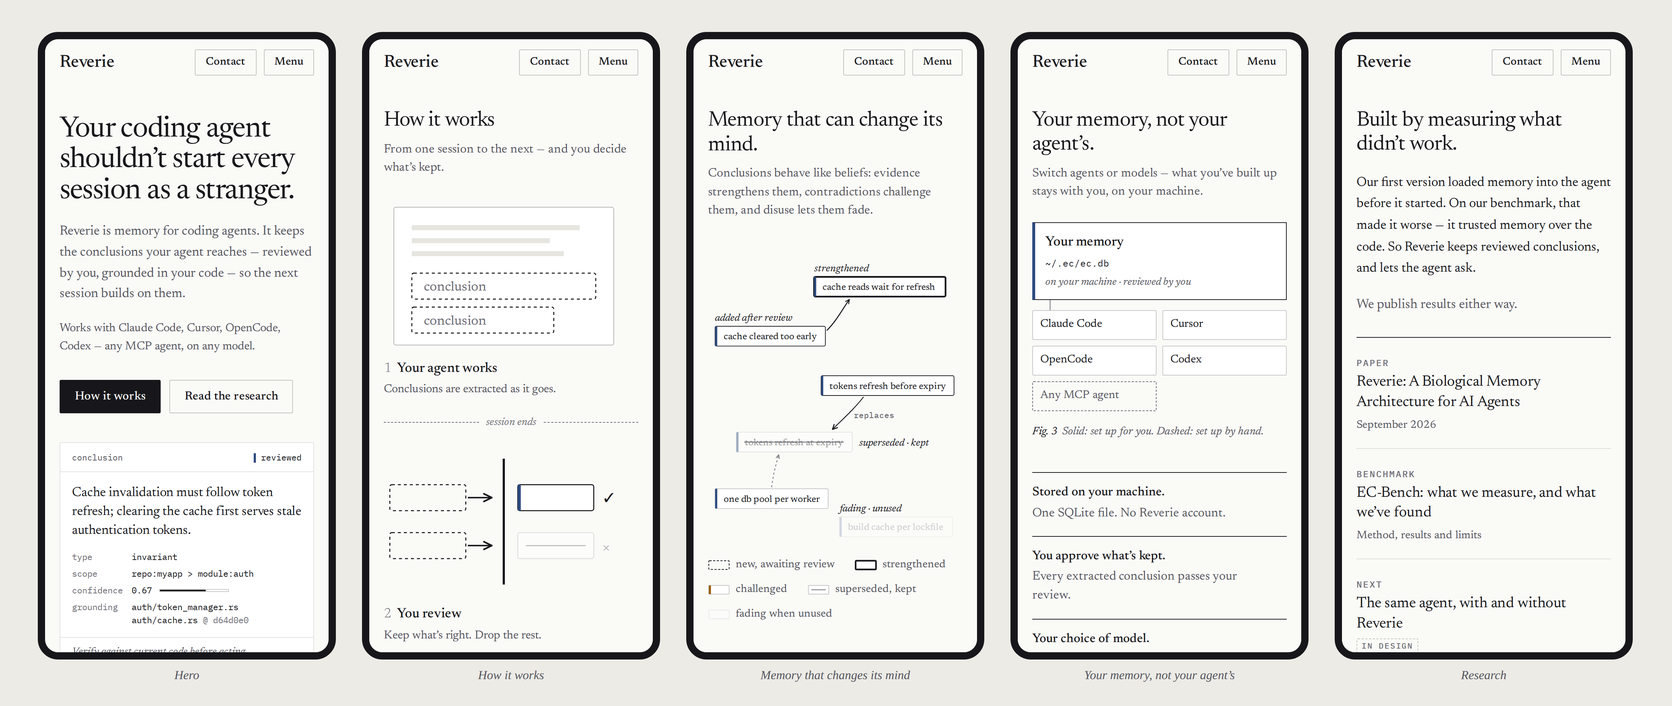
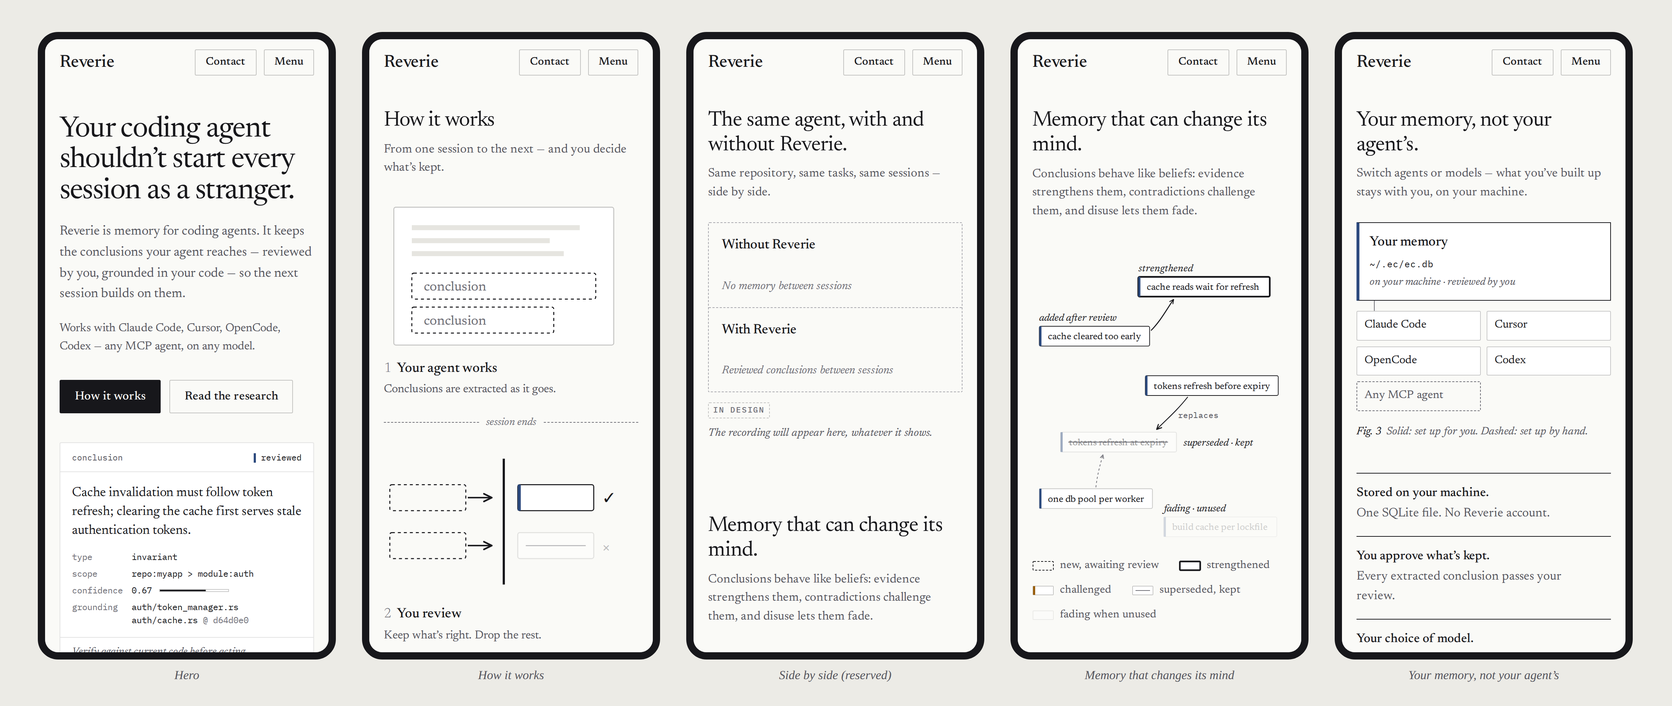
Reserve a homepage place for the comparison video; mark design approved
- Homepage preview: new section S3b, "The same agent, with and without
  Reverie.", placed after How it works. Until the recording exists it
  is a dashed two-sided frame (Without Reverie / With Reverie, each
  naming its condition) with an "In design" tag and "The recording will
  appear here, whatever it shows." No player, thumbnail or anything
  that predicts a result. The research list's "Next" row moves into it.
- Plan: S3b spec for the reserved and published states (one composited
  side-by-side recording with the setup disclosed, per the owner's
  reference), a new experiment.homepageSlot switch (default true), and
  the §13 lifecycle updated for the homepage.
- Status lines: design approved by the owner on 2026-10-05.
- Implementation tasks: redesign branches from this branch; T1 config
  and T4a cover the slot; T12 swaps it for the video.

Claude-Session: https://claude.ai/code/session_01MShEPT7snyJJC3PupJTceH

diff --git a/design/homepage-preview/home.html b/design/homepage-preview/home.html
@@ -194,6 +194,16 @@ figure.fig .legend svg { width: 30px; height: 14px; display: inline-block; }
   .mm-toggle { display: none; }
 }
 
+/* ---------- side by side (S3b, reserved video slot) ---------- */
+.vs { margin: 52px 0 0; }
+.vs-labels, .vs-frame { display: grid; grid-template-columns: 1fr 1fr; }
+.vs-frame { height: 260px; border: 1px dashed var(--ink-4); border-radius: 2px; }
+.vs-half { padding: 22px 24px; display: flex; flex-direction: column; justify-content: space-between; }
+.vs-half + .vs-half { border-left: 1px dashed var(--ink-4); }
+.vs-label { font-size: 19px; font-weight: 500; }
+.vs-cond { font-style: italic; font-size: 15.5px; color: var(--ink-3); }
+.vs-status { margin-top: 14px; display: flex; gap: 10px; align-items: baseline; flex-wrap: wrap; }
+
 /* ---------- ownership (O1) ---------- */
 .facts3 { margin: 44px 0 0; list-style: none; padding: 0; }
 .facts3 li { grid-column: span 4; border-top: 1px solid var(--ink); padding: 14px 24px 0 0; font-size: 17.5px; line-height: 1.5; }
@@ -264,6 +274,10 @@ footer { margin-top: 144px; border-top: 1px solid var(--rule); padding: 50px 0 4
   .panel-label { margin-top: 40px; }
   .facts3 li { margin-top: 18px; }
   .rlist { margin-top: 30px; }
+  .vs { margin-top: 28px; }
+  .vs-frame { grid-template-columns: 1fr; height: auto; }
+  .vs-half { min-height: 116px; padding: 16px 18px; }
+  .vs-half + .vs-half { border-left: 0; border-top: 1px dashed var(--ink-4); }
   .rlist li { grid-template-columns: 1fr; row-gap: 4px; }
   .s7 { padding-top: 104px; }
   .s7 .right { margin-top: 16px; }
@@ -526,6 +540,21 @@ footer { margin-top: 144px; border-top: 1px solid var(--rule); padding: 50px 0 4
   <p class="more"><a class="arrow-link" href="#">The full mechanism →</a></p>
 </section>
 
+<!-- S3b Side by side: reserved space for the comparison video (dashed until the recording exists) -->
+<section class="section wrap">
+  <div class="grid s-head">
+    <h2>The same agent, with and without Reverie.</h2>
+    <p class="aside">Same repository, same tasks, same sessions — side by side.</p>
+  </div>
+  <figure class="vs" aria-label="Reserved space for the side-by-side recording">
+    <div class="vs-frame">
+      <div class="vs-half"><span class="vs-label">Without Reverie</span><span class="vs-cond">No memory between sessions</span></div>
+      <div class="vs-half"><span class="vs-label">With Reverie</span><span class="vs-cond">Reviewed conclusions between sessions</span></div>
+    </div>
+    <figcaption class="vs-status"><span class="tag dashed">In design</span><span class="caption">The recording will appear here, whatever it shows.</span></figcaption>
+  </figure>
+</section>
+
 <!-- S4 Memory that can change its mind (M1 + F2) -->
 <section class="section wrap">
   <div class="grid s-head">
@@ -723,7 +752,6 @@ footer { margin-top: 144px; border-top: 1px solid var(--rule); padding: 50px 0 4
   <ul class="rlist">
     <li><span class="mono-label kind">Paper</span><div><div class="title">Reverie: A Biological Memory Architecture for AI Agents</div><div class="meta">September 2026</div></div></li>
     <li><span class="mono-label kind">Benchmark</span><div><div class="title">EC-Bench: what we measure, and what we’ve found</div><div class="meta">Method, results and limits</div></div></li>
-    <li><span class="mono-label kind">Next</span><div><div class="title">The same agent, with and without Reverie</div><div class="meta"><span class="tag dashed">In design</span></div></div></li>
   </ul>
   <p class="more"><a class="arrow-link" href="#">All research →</a></p>
 </section>

diff --git a/WEBSITE-DESIGN-PLAN.md b/WEBSITE-DESIGN-PLAN.md
@@ -1,6 +1,6 @@
 # Reverie website: design plan
 
-**Status:** proposal for review. Nothing in this plan has been implemented.
+**Status:** **approved by the owner on 2026-10-05.** Implementation runs on the `redesign` branch, task by task (see [`IMPLEMENTATION-TASKS.md`](./IMPLEMENTATION-TASKS.md)).
 **Date:** 2026-10-05
 **Branch:** `claude/elegant-hopper-xg43jw`
 **Scope:** a ground-up redesign of the Reverie website, from information architecture down to the design system and an implementation plan.
@@ -26,14 +26,14 @@ It also uses a read-only pass over this repository (including the four PDFs in `
 | What the site is for | A product site for Reverie, backed by its research. The order is: product, then how it works, then why it's different, then the research that explains and tests it. |
 | Positioning | **Reverie is memory for coding agents. It keeps the engineering conclusions your agent reaches, reviewed by you, grounded in your repository, and revised as evidence changes. The memory is yours, not your agent's: one local file that any MCP agent can use, on any model.** |
 | Category frame | Reverie sits among tools that give *the coding agent you already use* persistent memory. Being in that category isn't what makes it different: many tools are there now (§3). What differs is *what* it keeps (conclusions), *how belief is governed* (confidence, contradiction, supersession, grounding, review, and retrieval only when the agent asks) and *whose memory it is*: the developer's, shared by every agent they connect. |
-| Homepage | Seven short sections plus one reserved slot. About 340 words of copy and no numbers. It is visual-led: a diagram wherever one explains better than text (owner rule, 2026-10-05). Six visuals, one of them animated. |
+| Homepage | Eight short sections, one of them the reserved place for the comparison video (S3b). About 340 words of copy and no numbers. It is visual-led: a diagram wherever one explains better than text (owner rule, 2026-10-05). Six visuals, one of them animated. |
 | Pages | Home, How it works, Research, paper (web-native), EC-Bench, Continuity experiment (reserved), Notebook entries, About, 404. |
 | Navigation | `Reverie` · How it works · Research · About · **[GitHub]** (or **Contact** until the repository is public). |
 | Removed | `/ems`, `/ethos`, `/notes` (index), and all eight existing SVG components. Also the "At a Glance" cards, "The Shift" poem, the "Research Before Systems" manifesto, the scroll-fade animation layers and framer-motion. |
 | Moved | `/ec-bench` → `/research/ec-bench`; `/notes/everything-till-now` → `/research/notes/everything-till-now` (with an editor's note); PDFs → `/research/archive/`. |
 | Visual direction | "Two voices": a serif speaks for ideas and a monospace speaks for the system. Warm paper and ink, one ink-blue accent, and status colours used only where they mean something. Hairline rules, near-square corners, no cards, no gradients, no scroll animation. There is one explanatory animation (the homepage memory map); it can be paused and is static under reduced motion. |
 | Diagrams | Nine figures and two artifacts across the whole site. No page has more than three visuals, except the homepage, which is visual-led by owner decision. Five pages have none. Full spec in `DIAGRAM-PLAN.md`. |
-| Comparison video | It gets its own research page, `/research/continuity-experiment`. Until results exist, that page publishes the protocol, and the homepage shows the experiment only as a dated "in design" line in the research section. A homepage video slot opens once results are published. |
+| Comparison video | A homepage section reserves its place now (S3b, after How it works; owner decision). Until the recording exists, it is a dashed two-sided frame marked `In design`; then the side-by-side video takes the same spot. Protocol, recordings and results live on `/research/continuity-experiment`. Nothing about the result appears before it exists. |
 | Benchmark numbers | **None on the homepage or How it works.** EC-Bench numbers appear only on the EC-Bench page, in a results ledger, after the owner reconciles conflicting figures (§1.7). |
 | Blocked on the owner | Reconcile the benchmark numbers, correct the paper, capture a real `ec_query` specimen, decide repository and licence timing, confirm the domain and hosting, and share the visual references (§20). |
 
@@ -557,9 +557,9 @@ Each page uses vocabulary appropriate to its depth, and each term is introduced 
 4. **No tool names on the homepage.** They belong on How it works.
 
 **Shape.**
-- Seven sections plus one reserved slot.
+- Eight sections: S1–S7 plus S3b, the place reserved for the comparison video.
 - About **340 words** of copy (down from about 480), counting the hero specimen and the captions, plus short figure labels.
-- **Six visuals across five sections**: V1, P1, F1, Fig. 2 (M1 above F2) and O1. The homepage is exempt from the three-visual cap by owner decision (§9).
+- **Six visuals across five sections**: V1, P1, F1, Fig. 2 (M1 above F2) and O1, plus the video slot. The homepage is exempt from the three-visual cap by owner decision (§9).
 - **No numbers.** Left-aligned editorial layout throughout.
 
 **One story through one conclusion.** An agent finds out why users are being logged out at random: the cache is cleared before the token refresh finishes. That thread appears as:
@@ -621,13 +621,22 @@ The recommended headline is the paper's own image ("the agent is a stranger"). B
 | **Why it exists** | Goals 3 and 6, plus the "after reading the code" stance. Review at the session boundary and the request after reading the code make the two governance ideas visible. |
 | **Deliberately leaves out** | The separate steps block (its content is now inside the figure); tool names; confidence maths; relationship types; maintenance; scope levels; model names; hover highlighting (nothing left to link to). |
 
-**Reserved slot S3b, "Watch it work"** (hidden until the continuity experiment is published; see §13). When it opens, it holds:
-- a poster frame and player for the side-by-side highlight recording;
-- a one-line neutral description;
-- the date;
-- *"Protocol, recordings and results →"*.
+### S3b. Side by side: *Can I see it work?*
 
-To keep the homepage from growing, **the lower panel of Fig. 2 (F2) then leaves the homepage**. F5 on How it works already covers it.
+The place for the comparison video. Per the owner's decision on 2026-10-05, it is **visible now**, before the recording exists.
+
+| | |
+|---|---|
+| **Purpose** | Hold the side-by-side recording: the same agent, on the same repository and tasks, across the same sessions, once without Reverie and once with it. Until the recording exists, the section reserves the place honestly. |
+| **Headline** | **The same agent, with and without Reverie.**, with an aside in the right column: "Same repository, same tasks, same sessions — side by side." |
+| **Before the recording** (now) | **The frame:** a dashed frame, 1200 × 260. Dashed means "not yet", as everywhere on the site. <br>**The halves:** it splits into *Without Reverie* and *With Reverie*. Each half has one italic line naming its condition: *No memory between sessions* and *Reviewed conclusions between sessions*. <br>**Underneath:** an `In design` tag (or `In progress` while recording) and *"The recording will appear here, whatever it shows."* In the `design` and `running` states, *How we'll run it →* is added. <br>**Never shown:** no player, play button or thumbnail, and nothing that predicts a result. |
+| **After the recording** (`published`) | The frame becomes the video module (V2): <br>• the condition labels above the two halves, in the same two-column grid; <br>• a 16:9 poster frame with a native player (click to play, no autoplay, captions); <br>• under it, one line of metadata: date · agent and model · sessions · "Sped up N×", then *Protocol, recordings and results →*. <br>The format follows the owner's reference: one composited side-by-side recording of the same task, with the setup disclosed. |
+| **Placement** | After How it works, so the mechanism comes first and the evidence follows; before Memory. |
+| **Mobile** | Before the recording, the two halves stack. After it, the composited highlight plays as produced (§13). |
+| **Why it exists** | Goals 8 and 9. Once the recording exists, it is direct evidence of continuity. Until then, it is a visible commitment to publish the result either way. |
+| **Deliberately leaves out** | Fake footage, mock terminals, an empty player, outcome language ("Reverie wins"), and any number before the results are published. |
+
+When the video is published, **the lower panel of Fig. 2 (F2) leaves the homepage**, so the page doesn't grow. F5 on How it works already covers it.
 
 ---
 
@@ -668,7 +677,7 @@ Alternative headline: "Kept as beliefs, not facts."
 | **Purpose** | Show the research foundation and the honesty that defines it, then route researchers onward. |
 | **Headline** | **Built by measuring what didn't work.** |
 | **Supporting copy** | Our first version loaded memory into the agent before it started. On our benchmark, that made it worse — it trusted memory over the code. So Reverie keeps reviewed conclusions, and lets the agent ask. <br><br> We publish results either way. |
-| **List** (typographic, three rows, each a link) | **Paper:** *Reverie: A Biological Memory Architecture for AI Agents* · September 2026 <br> **Benchmark:** *EC-Bench: what we measure, and what we've found* · Method, results and limits <br> **Next:** *The same agent, with and without Reverie* · `In design` |
+| **List** (typographic, each row a link) | **Paper:** *Reverie: A Biological Memory Architecture for AI Agents* · September 2026 <br> **Benchmark:** *EC-Bench: what we measure, and what we've found* · Method, results and limits <br> A third row, **Next:** *The same agent, with and without Reverie* · `In design`, appears only while S3b is hidden. |
 | **Call to action** | *All research →* (`/research`) |
 | **Why it exists** | Goal 9. It also states the value "research before claims" by *doing* it rather than declaring a principle. |
 | **Deliberately leaves out** | Every number; the biology story (one click away in the paper); the list of archived PDFs. |
@@ -862,13 +871,13 @@ The full specification (purpose, question answered, content, exclusions, composi
 | F4 | Two brains and a review gate | How it works; Paper | Architecture diagram | None |
 | F5 | The life of a conclusion, step by step | How it works; Paper (static) | Interactive state timeline with computed confidence | Stepper (buttons, keyboard, aria-live) |
 | F6 | How an EC-Bench run works | EC-Bench (variant on Experiment) | Protocol diagram | None |
-| V2 | Side-by-side recording | Experiment; Home slot S3b (when published) | Video module | Player, chapters, condition toggle on mobile |
+| V2 | Side-by-side recording | Experiment; Home S3b (a reserved, dashed frame until published) | Video module | Player, chapters, condition toggle on mobile |
 
 **Per-page count:**
 
 | Page | Visuals | Count |
 |---|---|---|
-| Home | V1, P1, F1, M1 with F2, O1 (when the video ships, V2 joins and F2 leaves) | 6, by owner decision |
+| Home | V1, P1, F1, M1 with F2, O1, plus the S3b video slot (a reserved frame now; V2 when published, and F2 then leaves) | 6 plus the slot, by owner decision |
 | How it works | F3, F4, F5 | 3 |
 | Paper | F4, F5 static | 2 |
 | EC-Bench | F6 | 1 |
@@ -1184,15 +1193,17 @@ The rename from EMS to Reverie, and the `ec` code prefix, are explained in exact
 
 ## 13. Comparison-video placement
 
-**Where it lives:** its own research page, `/research/continuity-experiment`. An experiment needs its protocol, artifacts and caveats next to the recording, and a homepage section can't carry that honestly. The homepage gets a compact module (slot S3b) once results exist.
+**Where it lives:** its own research page, `/research/continuity-experiment`. An experiment needs its protocol, artifacts and caveats next to the recording, and a homepage section can't carry that honestly. The homepage holds the recording itself in S3b. That section is visible now as a reserved frame (owner decision, 2026-10-05) and shows the video once it is published.
+
+**The owner's reference format:** one composited video with two labelled halves, both systems running the same task in a recorded run, with the comparison setup disclosed. The highlight cut below follows it.
 
 **Lifecycle**, controlled by a single setting, `site.config.ts → experiment.status`:
 
 | Status | Experiment page | Research index | Homepage |
 |---|---|---|---|
-| `hidden` | Not generated | Row: "Continuity experiment · In design" (no link) | S6 "Next" line, no link |
-| `design` (**recommended**) | **Live**: question, hypothesis stated neutrally, protocol, what will be published, last-updated date. *No empty video frame.* The copy says: "Recordings and results will be published here when the runs are complete, whatever they show." | Linked, `In design` | S6 "Next" line, linked |
-| `running` | As `design`, plus a run log (dates) | `Running` | Same |
+| `hidden` | Not generated | Row: "Continuity experiment · In design" (no link) | S3b shows the reserved frame, with no link. With `homepageSlot: false`, S3b is hidden and S6 shows a "Next" line instead. |
+| `design` (**recommended**) | **Live**: question, hypothesis stated neutrally, protocol, what will be published, last-updated date. *No empty video frame.* The copy says: "Recordings and results will be published here when the runs are complete, whatever they show." | Linked, `In design` | S3b reserved frame, plus *How we'll run it →* |
+| `running` | As `design`, plus a run log (dates) | `Running` | Same, with the tag `In progress` |
 | `published` | Full page (below) | `Published` | **S3b opens**: poster frame, player, one-line neutral description, date, "Protocol, recordings and results →". The lower panel of Fig. 2 (F2) leaves the homepage (§7 S3b). |
 
 Publishing the protocol before the results (status `design`) makes the "placeholder" a preregistration rather than an unfinished section, which fits the project's honesty.
@@ -1394,7 +1405,7 @@ components/
   research/    ResearchList · Lineage · ResultsLedger · Citation
   video/       ComparisonVideo (V2; built when the experiment ships)
 content/
-  site.config.ts          name, tagline, domain, contactEmail, repository {url|null, ref}, experiment {status}, claims {anyMcpAgent}, version, supportedAgents
+  site.config.ts          name, tagline, domain, contactEmail, repository {url|null, ref}, experiment {status, homepageSlot}, claims {anyMcpAgent}, version, supportedAgents
   research.ts             research entries (index, lineage, archive)
   bench-runs.ts           results ledger rows (with sources and reconciliation status)
   specimens/*.json        captured ec_query outputs (V1/F3)
@@ -1436,10 +1447,11 @@ type BenchRun = {
 
 ### 19.4 Configuration states
 
-`site.config.ts` holds three switches:
+`site.config.ts` holds four switches:
 
 - `repository.url: string | null`, which controls the CTA states (§4.5) and the grounding-note links;
 - `experiment.status: "hidden" | "design" | "running" | "published"`, which controls §13;
+- `experiment.homepageSlot: boolean` (default `true`, owner decision), which shows S3b's reserved frame before publication;
 - `claims.anyMcpAgent: boolean`, which controls the "any MCP agent" wording in the hero and the dashed record in Fig. 3 (§20, question 20).
 
 No other conditional logic is needed.
@@ -1494,7 +1506,7 @@ Vercel is assumed, since Vercel Analytics is installed. Redirects go in `vercel.
 | 2 | **Paper corrections** (§1.7A, 12 items): revise to v1.1 before web publication? | The paper would otherwise contradict the product pages | Revise; fall back to an abstract page plus errata |
 | 3 | **Repository timing:** when public, under what licence, at what URL? | Drives CTA state, grounding links, the "open source" answer | State A until a LICENSE exists |
 | 4 | **Pre-release contact:** mailto only, or a newsletter or form service? Offer "early access"? | A static site has no form backend | Mailto; no "early access" promise |
-| 5 | **Continuity experiment:** publish the protocol before results (`design` state)? Video hosting: self-hosted or embed? | Placeholder strategy; privacy | Yes, preregister; self-host |
+| 5 | **Continuity experiment:** publish the protocol before results (`design` state)? Video hosting: self-hosted or embed? | Placeholder strategy; privacy | Yes, preregister; self-host. The homepage slot already shows (owner decision, 2026-10-05) |
 | 6 | **Visual references:** please paste screenshots of the four references into a session, or into `design/references/`. The image hosts stay blocked even in the Custom environment, and Dribbble serves a bot challenge. Do they imply a dark default? | Taste alignment before implementation; the metadata already points to light, Swiss-minimal and editorial (§10.14) | Light default plus system dark mode |
 | 7 | **Typefaces:** approve Newsreader and IBM Plex Mono (or Source Serif 4 / JetBrains Mono)? | Identity | Newsreader + Plex Mono |
 | 8 | **About:** name the individual and use "I", or keep "we"? Bio, links, portrait? | Honesty about scale vs voice | Name the author; "we" for the research voice |

diff --git a/DIAGRAM-PLAN.md b/DIAGRAM-PLAN.md
@@ -1,9 +1,9 @@
 # Reverie website: diagram and visual plan
 
-**Status:** proposal for review. **No diagram has been coded for the site.** The homepage figures are drawn in the static preview only.
+**Status:** **approved by the owner on 2026-10-05.** No diagram has been coded for the site yet; the homepage figures are drawn in the static preview. Implementation follows `IMPLEMENTATION-TASKS.md`.
 **Date:** 2026-10-05 · **Companion to:** [`WEBSITE-DESIGN-PLAN.md`](./WEBSITE-DESIGN-PLAN.md) (§9 summarises this file)
 **Approval:** every visual below needs sign-off before implementation. §8 is a review checklist.
-**Reference rendering:** V1, P1, F1, M1, F2 and O1 are drawn in [`design/homepage-preview/home.html`](./design/homepage-preview/home.html) (version 2), in both desktop and mobile compositions. Screenshots, and a storyboard of the M1 animation, are in `design/homepage-preview/screenshots/`. Port their geometry and keyframes when implementing. Where wording differs between the preview and this file, the preview is newer.
+**Reference rendering:** V1, P1, F1, M1, F2 and O1, and the reserved V2 frame, are drawn in [`design/homepage-preview/home.html`](./design/homepage-preview/home.html) (version 2), in both desktop and mobile compositions. Screenshots, and a storyboard of the M1 animation, are in `design/homepage-preview/screenshots/`. Port their geometry and keyframes when implementing. Where wording differs between the preview and this file, the preview is newer.
 **Revision 2 (2026-10-05):** after the owner's review of the first preview, the homepage became visual-led. V1 and F1 were simplified, F2 lost its supporting copy, and P1, M1 and O1 were added. §1, §3, §5, §7 and §8 are updated.
 
 All factual elements cite their source. Most cite **PRODUCT.md** (the implementation archaeology) or **INSTALLATION.md**; a few cite the paper *Reverie: A Biological Memory Architecture for AI Agents* (5 Sep 2026), but only where the paper agrees with the implementation (see design plan §1.7A).
@@ -25,7 +25,7 @@ All factual elements cite their source. Most cite **PRODUCT.md** (the implementa
 
 | Page | Visuals | Count |
 |---|---|---|
-| Home `/` | V1 hero graph · P1 Every session starts from zero · F1 From one session to the next · Fig. 2: M1 memory map above F2 one conclusion, up close · O1 Your memory, not your agent's | **6** (owner exception) |
+| Home `/` | V1 hero graph · P1 Every session starts from zero · F1 From one session to the next · Fig. 2: M1 memory map above F2 one conclusion, up close · O1 Your memory, not your agent's · plus the S3b video slot (a reserved frame until V2 exists) | **6** plus the slot (owner exception) |
 | Home, after the continuity experiment is published | V1 · P1 · F1 · M1 · O1 · V2 side-by-side recording (F2 leaves the homepage; S4 links to F5) | **6** |
 | How it works `/how-it-works` | F3 Anatomy of a conclusion · F4 Two brains and a review gate · F5 The life of a conclusion, step by step | **3** |
 | Paper `/research/biological-memory-architecture` | F4 (reused) · F5 static variant (reused) | **2** |
@@ -356,12 +356,13 @@ Extracted  You accept it  Supported and used  A new one disagrees  Conflict pers
 | Field | Specification |
 |---|---|
 | **Name** | V2, the continuity experiment recording |
-| **Pages** | Continuity experiment (published state); Home slot S3b (published state). |
+| **Pages** | Continuity experiment (published state); Home S3b, which shows a reserved frame now and the video once published. |
 | **Purpose** | Let a visitor *watch* the same agent continue work across sessions with and without Reverie, as evidence. It is not an advertisement. |
 | **Question it answers** | "What does Reverie actually change in a real session?" |
 | **Contains** | (1) **Highlight cut** (90 s or less): a composited side-by-side, produced for legibility (zoomed crops, large terminal type), with **on-screen speed-up disclosure** and session chapter cards. (2) **Full recordings** per arm, with chapters (Session 1, 2, 3…) and key-moment markers. (3) **Captions** (WebVTT) and a **text transcript**. (4) **Metadata block** next to the player, as listed in design plan §13. |
 | **Leaves out** | Background music, outcome text over the video ("Reverie wins"), any splicing that changes the order of events, any unexplained speed changes. |
-| **Composition** | Desktop: the highlight player full width (16:9), with the metadata block in a right column or directly below; full recordings below as two players with optional synchronised play and seek. Home S3b: poster frame, play button, one-line neutral description, date, link. |
+| **Composition** | **Experiment page (desktop):** the highlight player at full width (16:9), with the metadata block in a right column or directly below. The full recordings sit below as two players with optional synchronised play and seek. <br>**Home S3b:** the condition labels (*Without Reverie*, *With Reverie*) in a two-column row above the poster frame and play button. Below: one metadata line (date · agent and model · sessions · speed-up) and *Protocol, recordings and results →*. |
+| **Reserved state (Home, now)** | A dashed 1200 × 260 frame split into two halves, labelled *Without Reverie* and *With Reverie*. Each half names its condition: *No memory between sessions* and *Reviewed conclusions between sessions*. Under it: an `In design` tag and *"The recording will appear here, whatever it shows."* There is no player, play button or thumbnail, and nothing that predicts a result. On mobile the halves stack. |
 | **Why a visual beats text** | Continuity is a behaviour over time. Seeing the agent ask for, retrieve and verify a conclusion (or fail to) is direct evidence that no description can replace. |
 | **Static or interactive** | Interactive: a native `<video>` element with custom chapter links. No autoplay with sound; a muted autoplay preview on Home is **not** used. |
 | **Mobile** | The highlight cut plays as produced. The full recordings use one player with a `Without · With Reverie` segmented toggle that preserves the current timestamp when switching. Never a shrunken split screen of terminal text. |
@@ -479,6 +480,6 @@ For each visual, please confirm or strike:
 | F4 Two brains and a review gate | ☐ | ☐ | ☐ | n/a | Show the `ec_reconsolidate` exception as drawn? |
 | F5 Life of a conclusion, step by step | ☐ | ☐ | ☐ | ☐ (stepper) | Worked numbers in §6 |
 | F6 How an EC-Bench run works | ☐ | ☐ | ☐ | n/a | Confirm protocol accuracy |
-| V2 Side-by-side recording | ☐ | ☐ | ☐ | ☐ | Hosting; preregistration |
+| V2 Side-by-side recording | ☐ | ☐ | ☐ | ☐ | Hosting; preregistration; the homepage slot is visible before release (owner decision) |
 | Retire all eight existing SVGs (§5) | ☐ | | | | |
 | "No diagram" pages (§4) | ☐ | | | | |

diff --git a/IMPLEMENTATION-TASKS.md b/IMPLEMENTATION-TASKS.md
@@ -1,6 +1,6 @@
 # Reverie website: implementation tasks
 
-**Status:** ready for implementation once the owner approves the design. **Date:** 2026-10-05.
+**Status:** **design approved by the owner on 2026-10-05; implementation under way.** **Date:** 2026-10-05.
 **Revision 2 (2026-10-05):** updated for the visual-led homepage (preview version 2). The homepage task is split into T4a (sections and static figures) and T4b (the memory-map animation). The motion and blur rules have one exception each, and P13 and P14 are new owner decisions.
 
 This file breaks [`WEBSITE-DESIGN-PLAN.md`](./WEBSITE-DESIGN-PLAN.md) and [`DIAGRAM-PLAN.md`](./DIAGRAM-PLAN.md) into **self-contained tasks**, each small enough for one focused session. The visual target for the homepage is [`design/homepage-preview/`](./design/homepage-preview/): an HTML rendering plus screenshots.
@@ -17,7 +17,7 @@ This file breaks [`WEBSITE-DESIGN-PLAN.md`](./WEBSITE-DESIGN-PLAN.md) and [`DIAG
 
 **Branching.** The live site deploys from `main` (Vercel, assumed). Use an integration branch:
 
-1. Create a branch called `redesign` from `main`. The first session does this.
+1. Create a branch called `redesign` from `claude/elegant-hopper-xg43jw`, which holds these documents and the preview (`main` doesn't have them until that branch is merged). The first session does this.
 2. Point every task session at `redesign`, through a PR into `redesign` or commits on it.
 3. Use `redesign`'s preview deployment to review.
 4. Merge `redesign` into `main` only after T11 passes.
@@ -131,7 +131,7 @@ Sonnet is fine for every task. T4a, T4b and T5 are the most design-sensitive, so
   - a `.prose` long-form style (replacing `.article-content`, restyled to the new tokens).
   - Keep the old `btn-editorial`, `card-editorial`, `text-editorial` and `section-animate` styles inside a `/* LEGACY — delete in T10 */` block, because old pages still use them.
 - **`content/site.config.ts`.**
-  - Fields: name, tagline, description, `domain: null`, contactEmail (`muditsarda23@gmail.com`), `repository: { url: null, ref: null }`, `experiment: { status: "hidden" }`, version, supportedAgents (Claude Code, Cursor, OpenCode, Codex), `claims: { anyMcpAgent: true }` (P13), nav items.
+  - Fields: name, tagline, description, `domain: null`, contactEmail (`muditsarda23@gmail.com`), `repository: { url: null, ref: null }`, `experiment: { status: "hidden", homepageSlot: true }`, version, supportedAgents (Claude Code, Cursor, OpenCode, Codex), `claims: { anyMcpAgent: true }` (P13), nav items.
   - Export typed helpers, for example `isRepoPublic()`.
 - **Components.**
   - `components/site/Wordmark.tsx`.
@@ -241,9 +241,10 @@ Sonnet is fine for every task. T4a, T4b and T5 are the most design-sensitive, so
   - S1: hero split, with the copy in columns 1–6 and `HeroGraph` in columns 7–12;
   - S2: the heading and pull line on the left, `SessionsStrip` (P1) on the right;
   - S3: Fig. 1 with its labels inside the figure (there is no separate steps block), then the arrow link;
+  - S3b: the side-by-side section with `VideoSlot`, the reserved dashed frame (plan §7 S3b);
   - S4: Fig. 2 (the memory map and its legend, the panel label, the lifecycle, the caption), then the arrow link;
   - S5: `OwnershipHub` (O1), the three facts, the arrow link;
-  - S6: the research list, with mono category labels and a dashed `In design` tag;
+  - S6: the research list, with mono category labels. The dashed `In design` "Next" row appears only while S3b is hidden;
   - S7: the closing section in State A or State B.
 - **`components/diagrams/HeroGraph.tsx`** (V1). It combines three parts:
   - `ConclusionRecord variant="compact"`;
@@ -262,7 +263,12 @@ Sonnet is fine for every task. T4a, T4b and T5 are the most design-sensitive, so
   - A desktop SVG; on mobile, the hub plus a two-column agent grid.
   - The agents come from `site.config.ts → supportedAgents`.
   - The dashed *Any MCP agent* record, and "any MCP agent" in the hero, render only when `claims.anyMcpAgent` is true (P13).
-- **Reserved slot S3b.** Renders nothing unless `experiment.status === "published"` (§7, §13).
+- **`components/video/VideoSlot.tsx`** (S3b), driven by config:
+  - when `experiment.status !== "published"` and `experiment.homepageSlot` is true, it renders the reserved frame. That is two dashed halves with their condition lines, the status tag (`In design`, or `In progress` while running) and the caption, plus *How we'll run it →* in the `design` and `running` states;
+  - when the status is `published`, it renders `ComparisonVideo` (T12);
+  - otherwise it renders nothing.
+  
+  There is no player, play button or thumbnail before publication.
 - Add claims-ledger rows for every homepage claim (C1–C17 and C27–C32 as applicable).
 
 **Acceptance**
@@ -467,7 +473,7 @@ Sonnet is fine for every task. T4a, T4b and T5 are the most design-sensitive, so
 - **`published` state** (later):
   - the `ComparisonVideo` component (highlight cut plus per-condition recordings with a timestamp-preserving toggle on mobile, captions and transcript);
   - the metadata block, a ledger row and caveats;
-  - turn on homepage slot S3b, which removes F2 (the lower panel of Fig. 2) from the homepage.
+  - switch homepage S3b from the reserved frame to the video, which also removes F2 (the lower panel of Fig. 2) from the homepage.
 
 **Blocked by.** P6.
 **Size.** S (design state) or L (published).

diff --git a/design/homepage-preview/README.md b/design/homepage-preview/README.md
@@ -1,12 +1,15 @@
 # Homepage preview: a design reference, not site code
 
-A static rendering of the homepage specified in [`WEBSITE-DESIGN-PLAN.md`](../../WEBSITE-DESIGN-PLAN.md) §7, with the figures V1, P1, F1, M1, F2 and O1 from [`DIAGRAM-PLAN.md`](../../DIAGRAM-PLAN.md). It has two jobs: to let the design be reviewed visually before implementation, and to give implementation sessions an exact visual target.
+A static rendering of the homepage specified in [`WEBSITE-DESIGN-PLAN.md`](../../WEBSITE-DESIGN-PLAN.md) §7, with the figures V1, P1, F1, M1, F2 and O1 from [`DIAGRAM-PLAN.md`](../../DIAGRAM-PLAN.md), and the reserved place for the comparison video (S3b). It has two jobs: to let the design be reviewed visually before implementation, and to give implementation sessions an exact visual target.
 
 This is **version 2**. It follows the owner's review of version 1:
 - less text;
 - diagrams in place of paragraphs;
 - an animated memory map;
-- the "your memory, not your agent's" section.
+- the "your memory, not your agent's" section;
+- a reserved place for the side-by-side comparison video.
+
+The owner approved this design on 2026-10-05.
 
 | Path | What it is |
 |---|---|
@@ -24,6 +27,7 @@ This is **version 2**. It follows the owner's review of version 1:
   - It loops every 16 seconds and has a pause button.
   - With reduced motion it shows a static, annotated map.
   - The production component must also pause while the map is off screen (see `IMPLEMENTATION-TASKS.md`, T4).
-- **Draft copy**, pending owner approval.
+- **The video slot (S3b)** in its state before the recording exists: a dashed two-sided frame marked `In design`. There is no player and nothing that predicts a result. Once the video is published it takes the same spot (plan §7 S3b, §13).
+- **Copy** as approved; small wording changes can still happen during implementation.
 
 **Using it during implementation.** Port the design tokens, measurements, SVG geometry and keyframes from `home.html` into React components; don't copy the file wholesale. Where its wording differs from the plan, this preview is newer.
